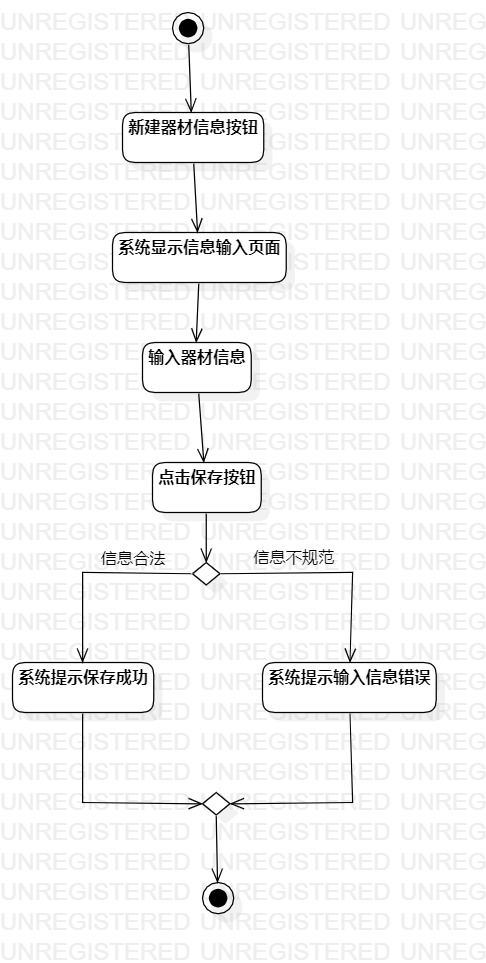
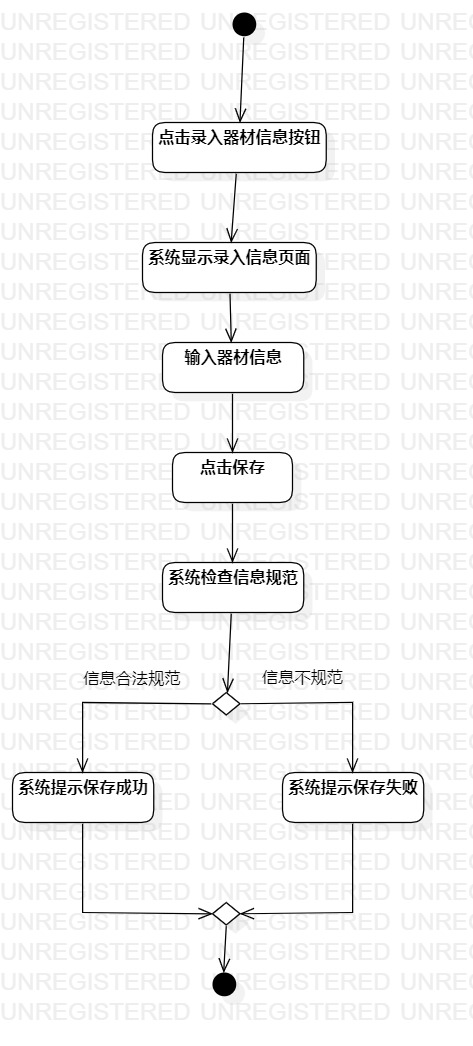
#3 #650 实验三 过程建模

diff --git a/students/1714080902414/lab2.md b/students/1714080902414/lab2.md
@@ -35,8 +35,9 @@
 ~| 2. 系统显示录入器材页面  |  
 ~| 3. 器材管理员输入器材信息  |  
 ~| 4. 器材管理员点击保存按钮  |  
-~| 5. 系统保存器材信息成功，提示保存成功  |  
-扩展流程  | 4.1 信息输入不合规范，系统提示输入错误  | *用例执行失败*  
+~| 5. 系统检查信息合法规范  |  
+~| 6. 系统保存器材信息成功，提示保存成功  |  
+扩展流程  | 5.1 信息输入不合规范，系统提示输入错误  | *用例执行失败*  
 
 ### 表2：修改器材信息用例规约 
 用例编号  | UC02 | 备注 
@@ -48,6 +49,7 @@
 ~| 2. 器材管理员点击修改按钮  |  
 ~| 3. 系统显示修改器材页面  |  
 ~| 4. 器材管理员输入器材信息  |  
-~| 5. 器材管理员点击保存按钮  | 
-~| 6. 系统保存器材信息成功，提示保存成功  | 
-扩展流程  | 5.1 信息输入不合规范，系统提示输入错误  | *用例执行失败*  
+~| 5. 器材管理员点击保存按钮  |  
+~| 6. 系统检查信息合法规范  |  
+~| 7. 系统保存器材信息成功，提示保存成功  |  
+扩展流程  | 6.1 信息输入不合规范，系统提示输入错误  | *用例执行失败*  
